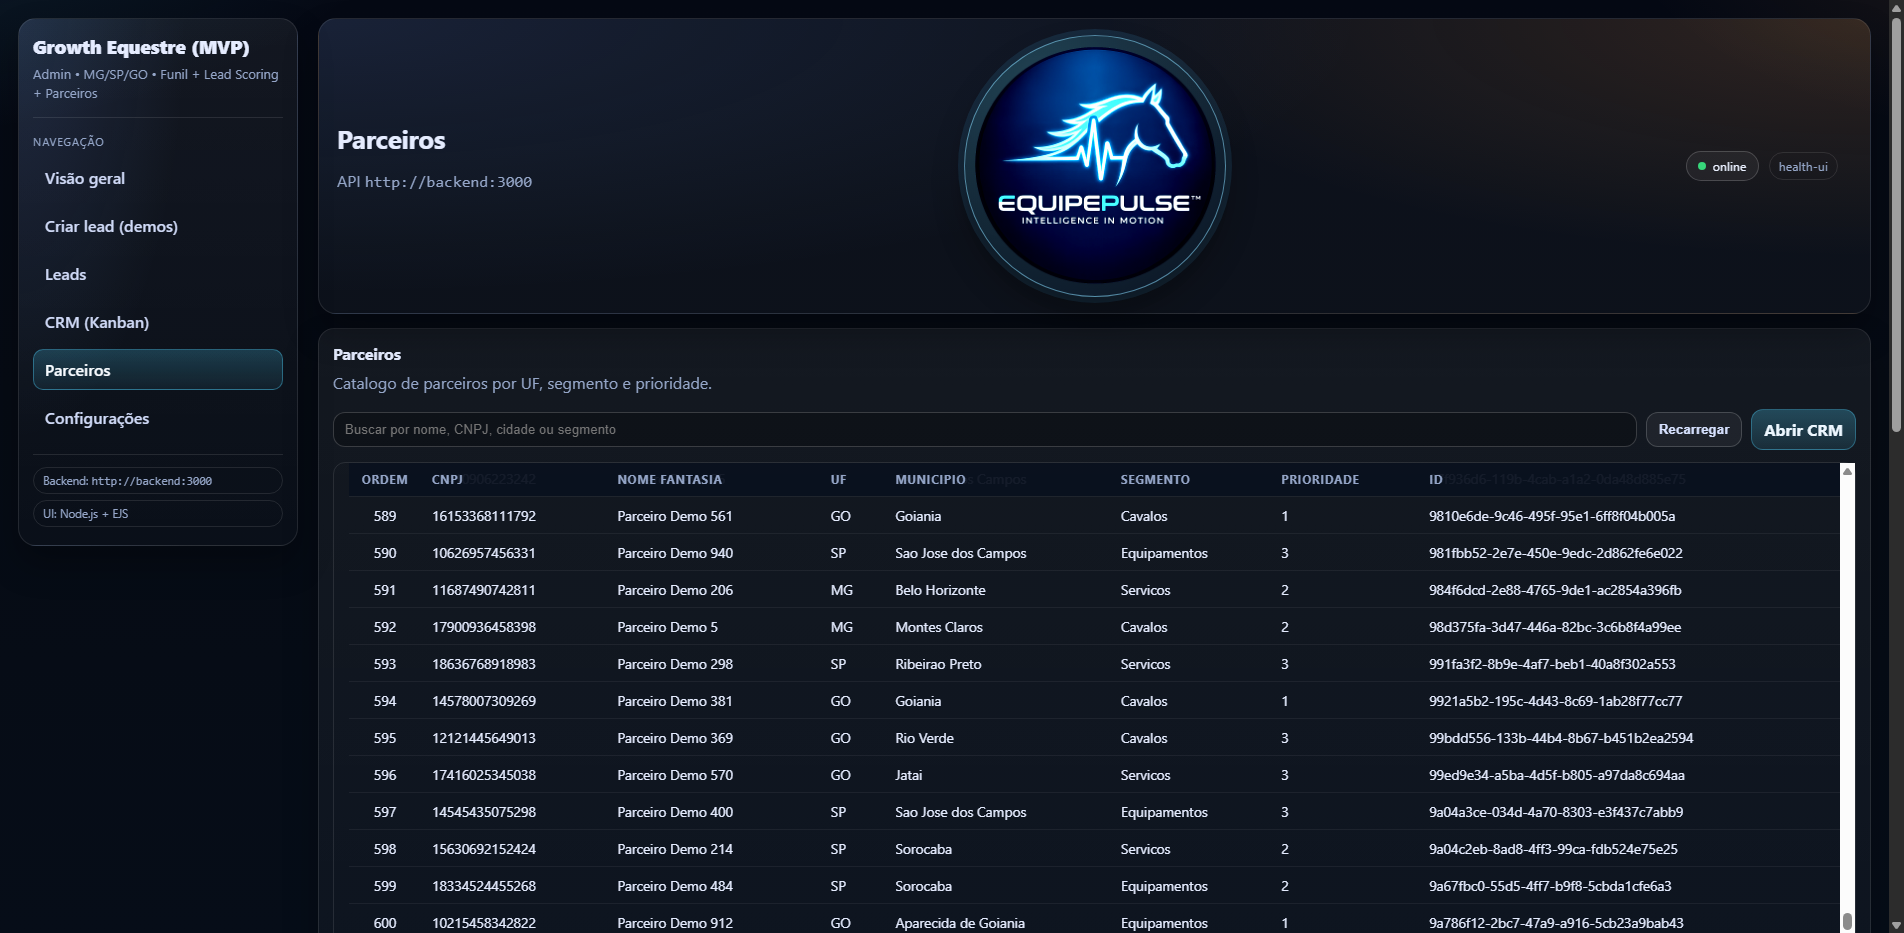
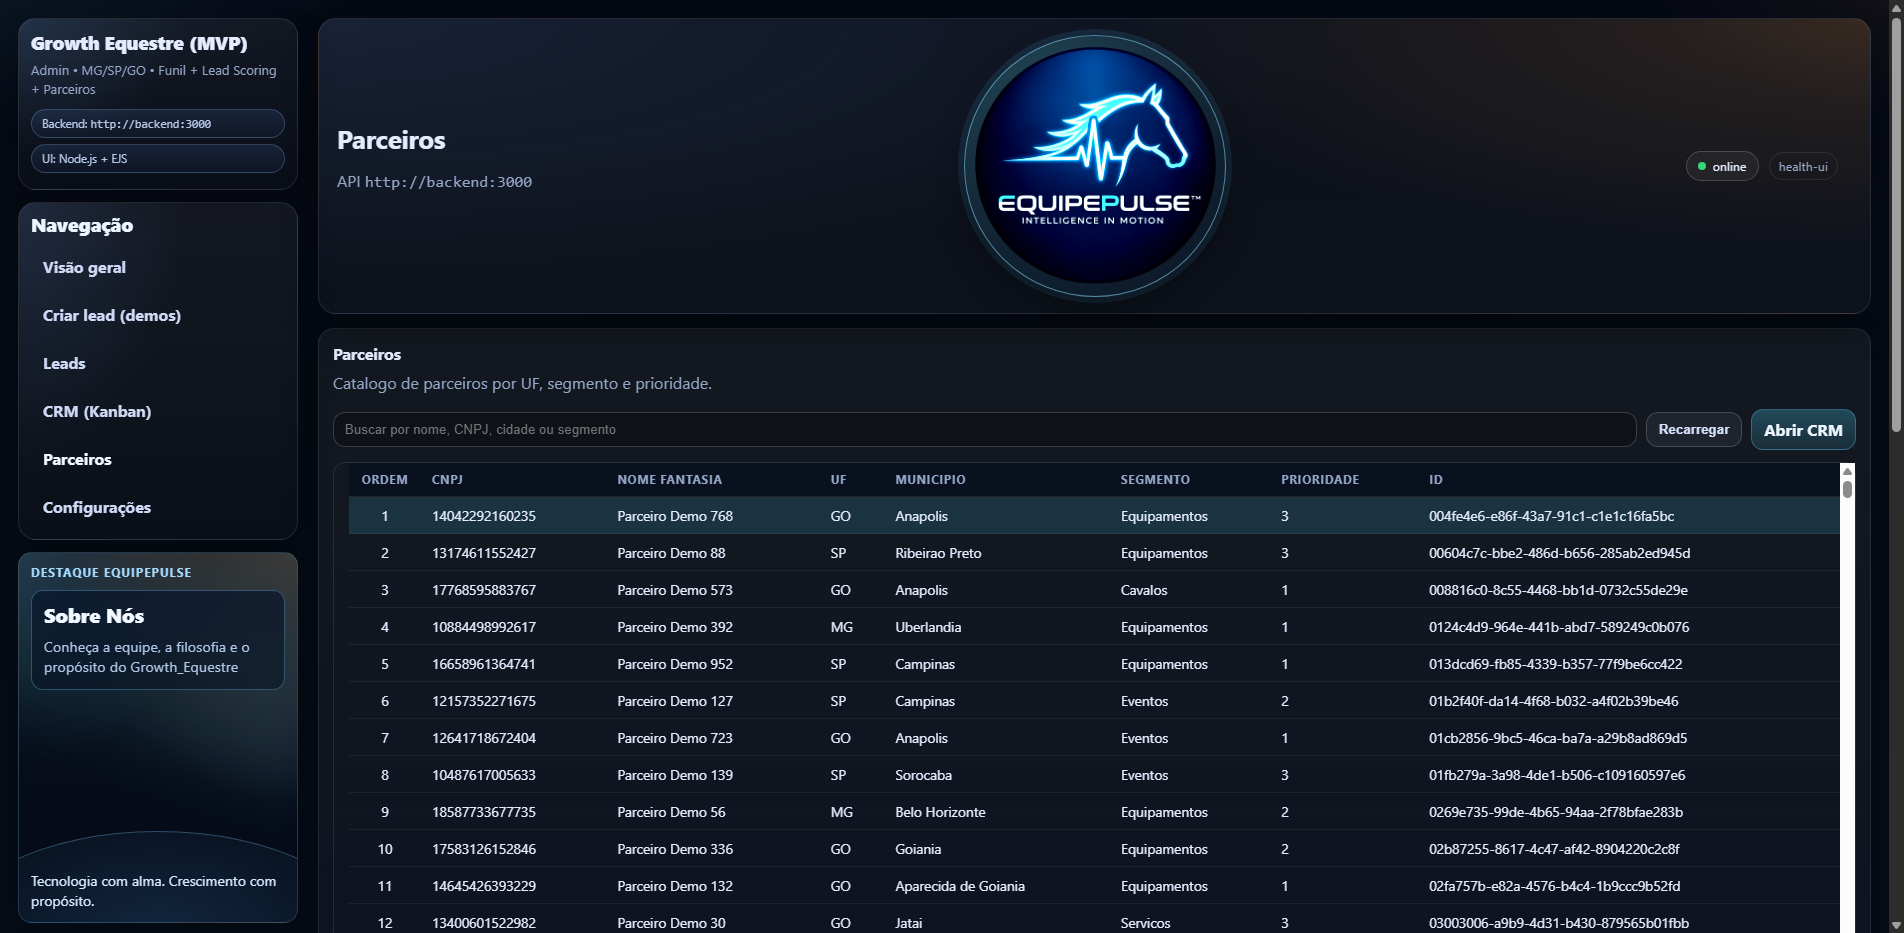
docs(readme): adicionar evidencias de rolagem na guia parceiros

diff --git a/tools/docs/capture_ui_core_screens.py b/tools/docs/capture_ui_core_screens.py
@@ -4,6 +4,7 @@ Capture updated README screenshots for the main UI Node.js screens:
 - create-lead-demos
 - leads
 - leads (scroll evidence)
+- partners (scroll evidence)
 - kanban
 - kanban (scroll evidence)
 - settings
@@ -43,6 +44,8 @@ PNG_CREATE_PITCH = OUT_DIR / "ui-criar-lead-demos-roteiro.png"
 PNG_LEADS = OUT_DIR / "ui-leads.png"
 PNG_LEADS_SCROLL_1 = OUT_DIR / "ui-leads-rolagem-1.png"
 PNG_LEADS_SCROLL_2 = OUT_DIR / "ui-leads-rolagem-2.png"
+PNG_PARTNERS_SCROLL_1 = OUT_DIR / "ui-parceiros-rolagem-1.png"
+PNG_PARTNERS_SCROLL_2 = OUT_DIR / "ui-parceiros-rolagem-2.png"
 PNG_KANBAN = OUT_DIR / "ui-crm-kanban.png"
 PNG_KANBAN_SCROLL_1 = OUT_DIR / "ui-crm-kanban-rolagem-1.png"
 PNG_KANBAN_SCROLL_2 = OUT_DIR / "ui-crm-kanban-rolagem-2.png"
@@ -271,6 +274,38 @@ def capture_kanban_scroll_evidence(driver: webdriver.Chrome) -> None:
     driver.execute_script("window.scrollTo(0, 0);")
 
 
+def capture_partners_scroll_evidence(driver: webdriver.Chrome, wait: WebDriverWait) -> None:
+    wait.until(ec.presence_of_element_located((By.CSS_SELECTOR, "#partnersTable table tbody tr[data-partner-id]")))
+    driver.execute_script(
+        "window.scrollTo(0, 0);"
+        "const t=document.getElementById('partnersTable');"
+        "if(t){t.scrollTop=0;}"
+    )
+    time.sleep(0.35)
+    capture_viewport_png(driver, PNG_PARTNERS_SCROLL_1)
+
+    selected = driver.execute_script(
+        """
+        const sel = document.getElementById('partnerDetailSelect');
+        if (!sel) return false;
+        const first = [...sel.options].find((o) => (o.value || '').trim());
+        if (!first) return false;
+        sel.value = first.value;
+        sel.dispatchEvent(new Event('change', { bubbles: true }));
+        return true;
+        """
+    )
+    if selected:
+        wait.until(ec.presence_of_element_located((By.CSS_SELECTOR, "#partnerInfoWrap table")))
+
+    details_card = driver.find_element(By.CSS_SELECTOR, ".partner-details-card")
+    driver.execute_script("arguments[0].scrollIntoView({block: 'start'});", details_card)
+    driver.execute_script("window.scrollBy(0, 90);")
+    time.sleep(0.4)
+    capture_viewport_png(driver, PNG_PARTNERS_SCROLL_2)
+    driver.execute_script("window.scrollTo(0, 0);")
+
+
 def capture_assets(
     ui_url: str,
     capture_retrain_result: bool = False,
@@ -302,6 +337,9 @@ def capture_assets(
         open_first_kanban_lead_details(driver, wait)
         capture_viewport_png(driver, PNG_KANBAN)
         capture_kanban_scroll_evidence(driver)
+
+        wait_page_ready(driver, wait, f"{base}/partners", "#partnersTable")
+        capture_partners_scroll_evidence(driver, wait)
 
         wait_page_ready(driver, wait, f"{base}/settings", "#btnMlRetrainRun")
         capture_viewport_png(driver, PNG_SETTINGS)
@@ -354,6 +392,8 @@ def main() -> int:
         print(f"[ok] {PNG_LEADS.relative_to(ROOT)}")
         print(f"[ok] {PNG_LEADS_SCROLL_1.relative_to(ROOT)}")
         print(f"[ok] {PNG_LEADS_SCROLL_2.relative_to(ROOT)}")
+        print(f"[ok] {PNG_PARTNERS_SCROLL_1.relative_to(ROOT)}")
+        print(f"[ok] {PNG_PARTNERS_SCROLL_2.relative_to(ROOT)}")
         print(f"[ok] {PNG_KANBAN.relative_to(ROOT)}")
         print(f"[ok] {PNG_KANBAN_SCROLL_1.relative_to(ROOT)}")
         print(f"[ok] {PNG_KANBAN_SCROLL_2.relative_to(ROOT)}")

diff --git a/README.md b/README.md
@@ -474,6 +474,18 @@ Também inclui:
 
 ![Node.js - Parceiros](docs/readme_images/ui-parceiros.png)
 
+Evidencias de rolagem vertical da pagina (topo da guia -> bloco inferior de detalhes):
+
+![Node.js - Parceiros (rolagem 1)](docs/readme_images/ui-parceiros-rolagem-1.png)
+![Node.js - Parceiros (rolagem 2)](docs/readme_images/ui-parceiros-rolagem-2.png)
+
+Como interpretar os dados da guia Parceiros:
+- **Tabela superior (catalogo)**: use `Ordem`, `UF`, `Municipio`, `Segmento` e `Prioridade` para filtrar rapidamente a aderencia do parceiro ao lead.
+- **Selecionar parceiro / Procurar por ordem**: fixa o parceiro de trabalho e facilita navegacao direta quando a lista e longa.
+- **Informacoes principais**: valida identidade e enquadramento do parceiro (CNPJ, nome fantasia, razao social, CNAE e situacao cadastral).
+- **Contato**: define o melhor canal de acionamento comercial imediato (site, email, telefone, instagram).
+- **Endereco**: confirma contexto geografico para operacao/logistica e evita encaminhamento para regiao inadequada.
+
 [![Voltar ao Indice](https://img.shields.io/badge/%E2%AC%86%EF%B8%8F-Voltar%20ao%20%C3%8Dndice-0b5fff?style=for-the-badge)](#indice)
 
 <a id="826-guia-detalhado-configuracoes"></a>
